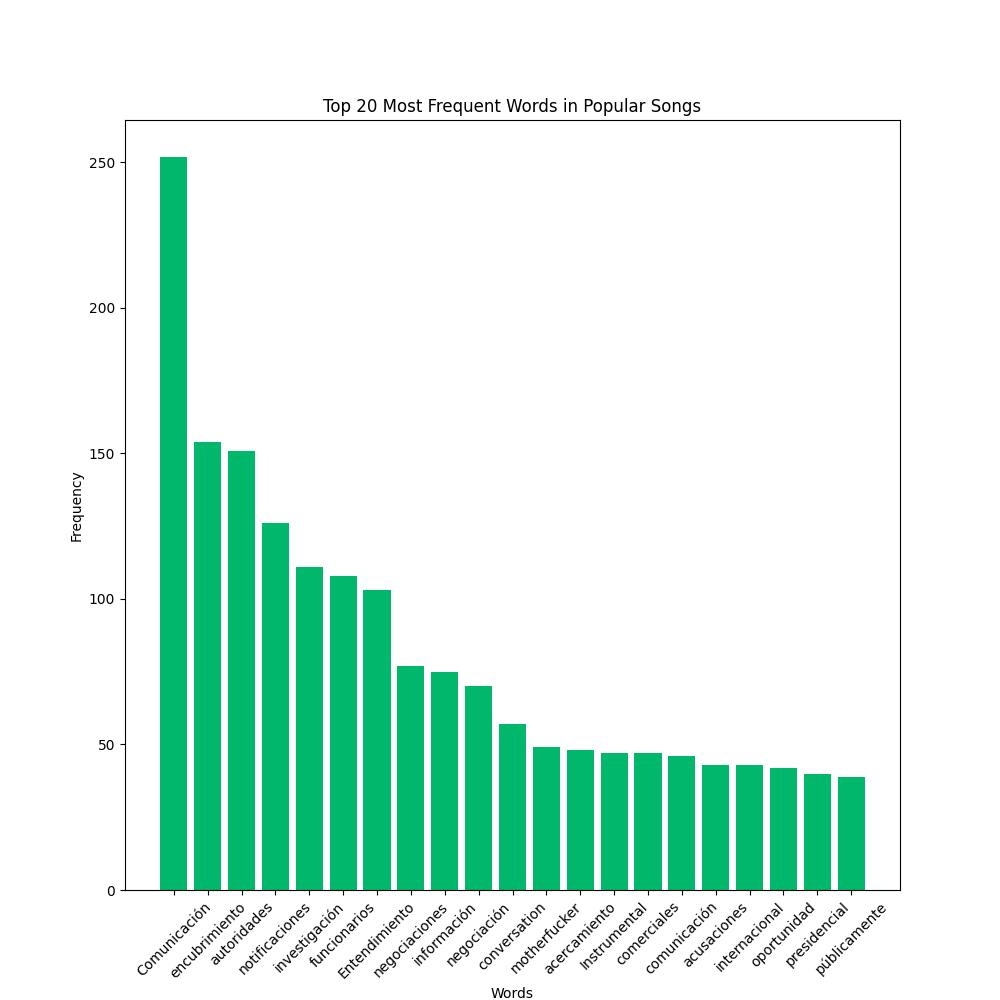
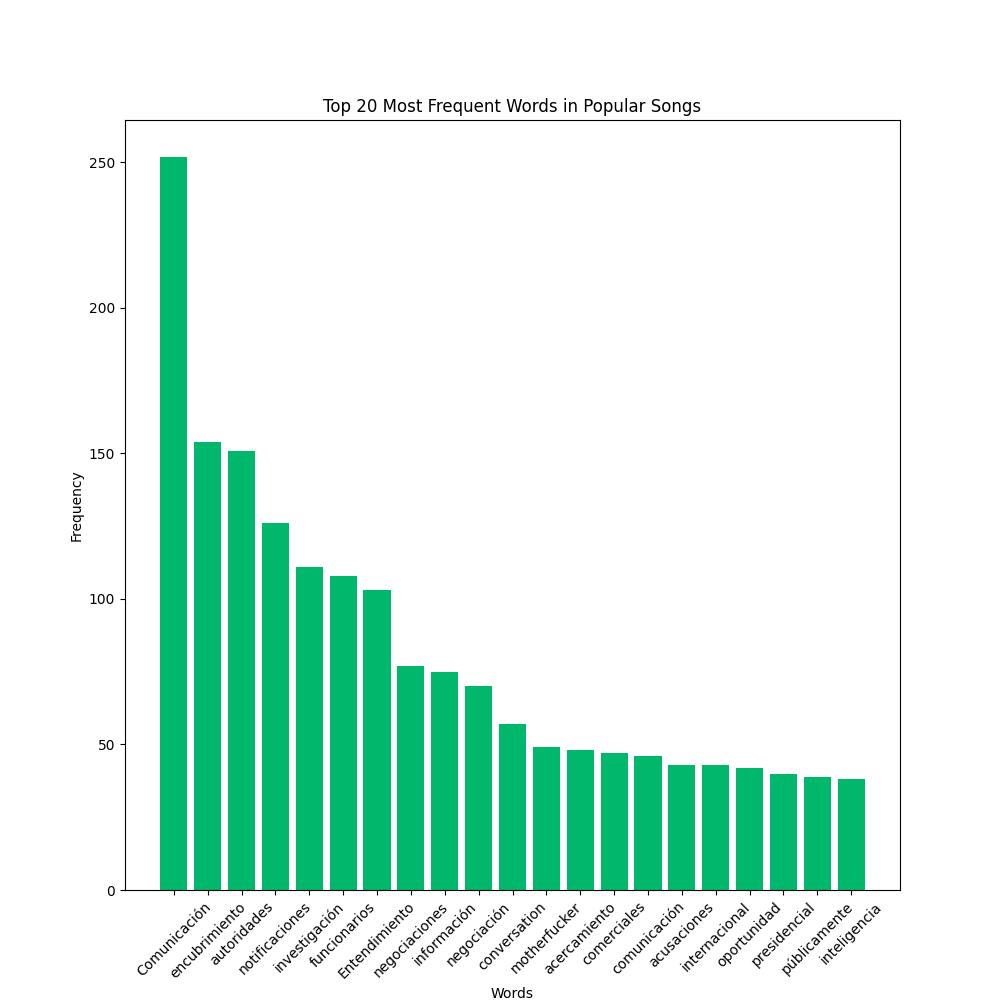
Stop words

diff --git a/functions/prepare_lyrics.py b/functions/prepare_lyrics.py
@@ -12,13 +12,18 @@ def prepare_lyrics(directory):
     stop_words = set(stopwords.words('english'))
     spanish_stop_words = set(stopwords.words('spanish'))
     stop_words.update(spanish_stop_words)
-    stop_words.update(['[', ']', ':', ';', "''", '(', ')', '&', ',', '?', '``', '-', ',', '!', '\'', '.', '/', '\'', '"', '...', '*', '--', '—', '’', '“', '”','–', '//'])
+    stop_words.update(['[', ']', ':', ';', "''", '(', ')', '&', ',', '?', '``', '-',
+                       ',', '!', '\'', '.', '/', '\'', '"', '...', '*', '--', '—', 
+                       '’', '“', '”','–', '//'])
     
     # Song specific stop words
-    stop_words.update(['feat', 'chorus', 'verse', 'pre-chorus', 'post-chorus', 'outro', 'verso', 'refrain', 'lyrics', 'intro', 'ft', 'et', 'embed', 'remix', 'archivo', 'ft-', 'EP'])
+    stop_words.update(['feat', 'chorus', 'verse', 'pre-chorus', 'post-chorus', 'outro', 'verso', 'refrain',
+                       'lyrics', 'intro', 'ft', 'et', 'embed', 'remix', 'archivo', 'ft.', 'EP', 'instrumental',
+                       'Khalil', 'LiveGet', 'Petrusich_DoNotSell_TX_PTR.indd'])
 
     # Extremely common words that appear every time
-    stop_words.update(['like', 'im', 'know', 'might', 'dont', 'got', 'also', 'oh', 'aint', 'youre', 'get', 'go', 'na', 'one'])
+    stop_words.update(['like', 'im', 'know', 'might', 'dont', 'got', 'also', 'oh', 'aint', 'youre', 'get',
+                       'go', 'na', 'one'])
 
     # Lemmatizer
     lemmatizer = WordNetLemmatizer() 

diff --git a/functions/top20_freq.py b/functions/top20_freq.py
@@ -77,12 +77,13 @@ def top20_words_frequency(num_letters, directory):
         else:
             plt.savefig('visualizations/top20freq_{num_letters}.jpg'.format(num_letters=num_letters))
 
+# ONLY RUN ONE OF THESE LOOPS AT A TIME
 
-for i in range(2017, 2022):
-    top20_words_frequency(0, str(i))
-    top20_words_frequency(4, str(i))
-    top20_words_frequency(5, str(i))
-    print('Completed {year}'.format(year=i))
+# for i in range(2017, 2022):
+#     top20_words_frequency(0, str(i))
+#     top20_words_frequency(4, str(i))
+#     top20_words_frequency(5, str(i))
+#     print('Completed {year}'.format(year=i))
 
 for i in range(15):
     top20_words_frequency(i, 'lyrics')
